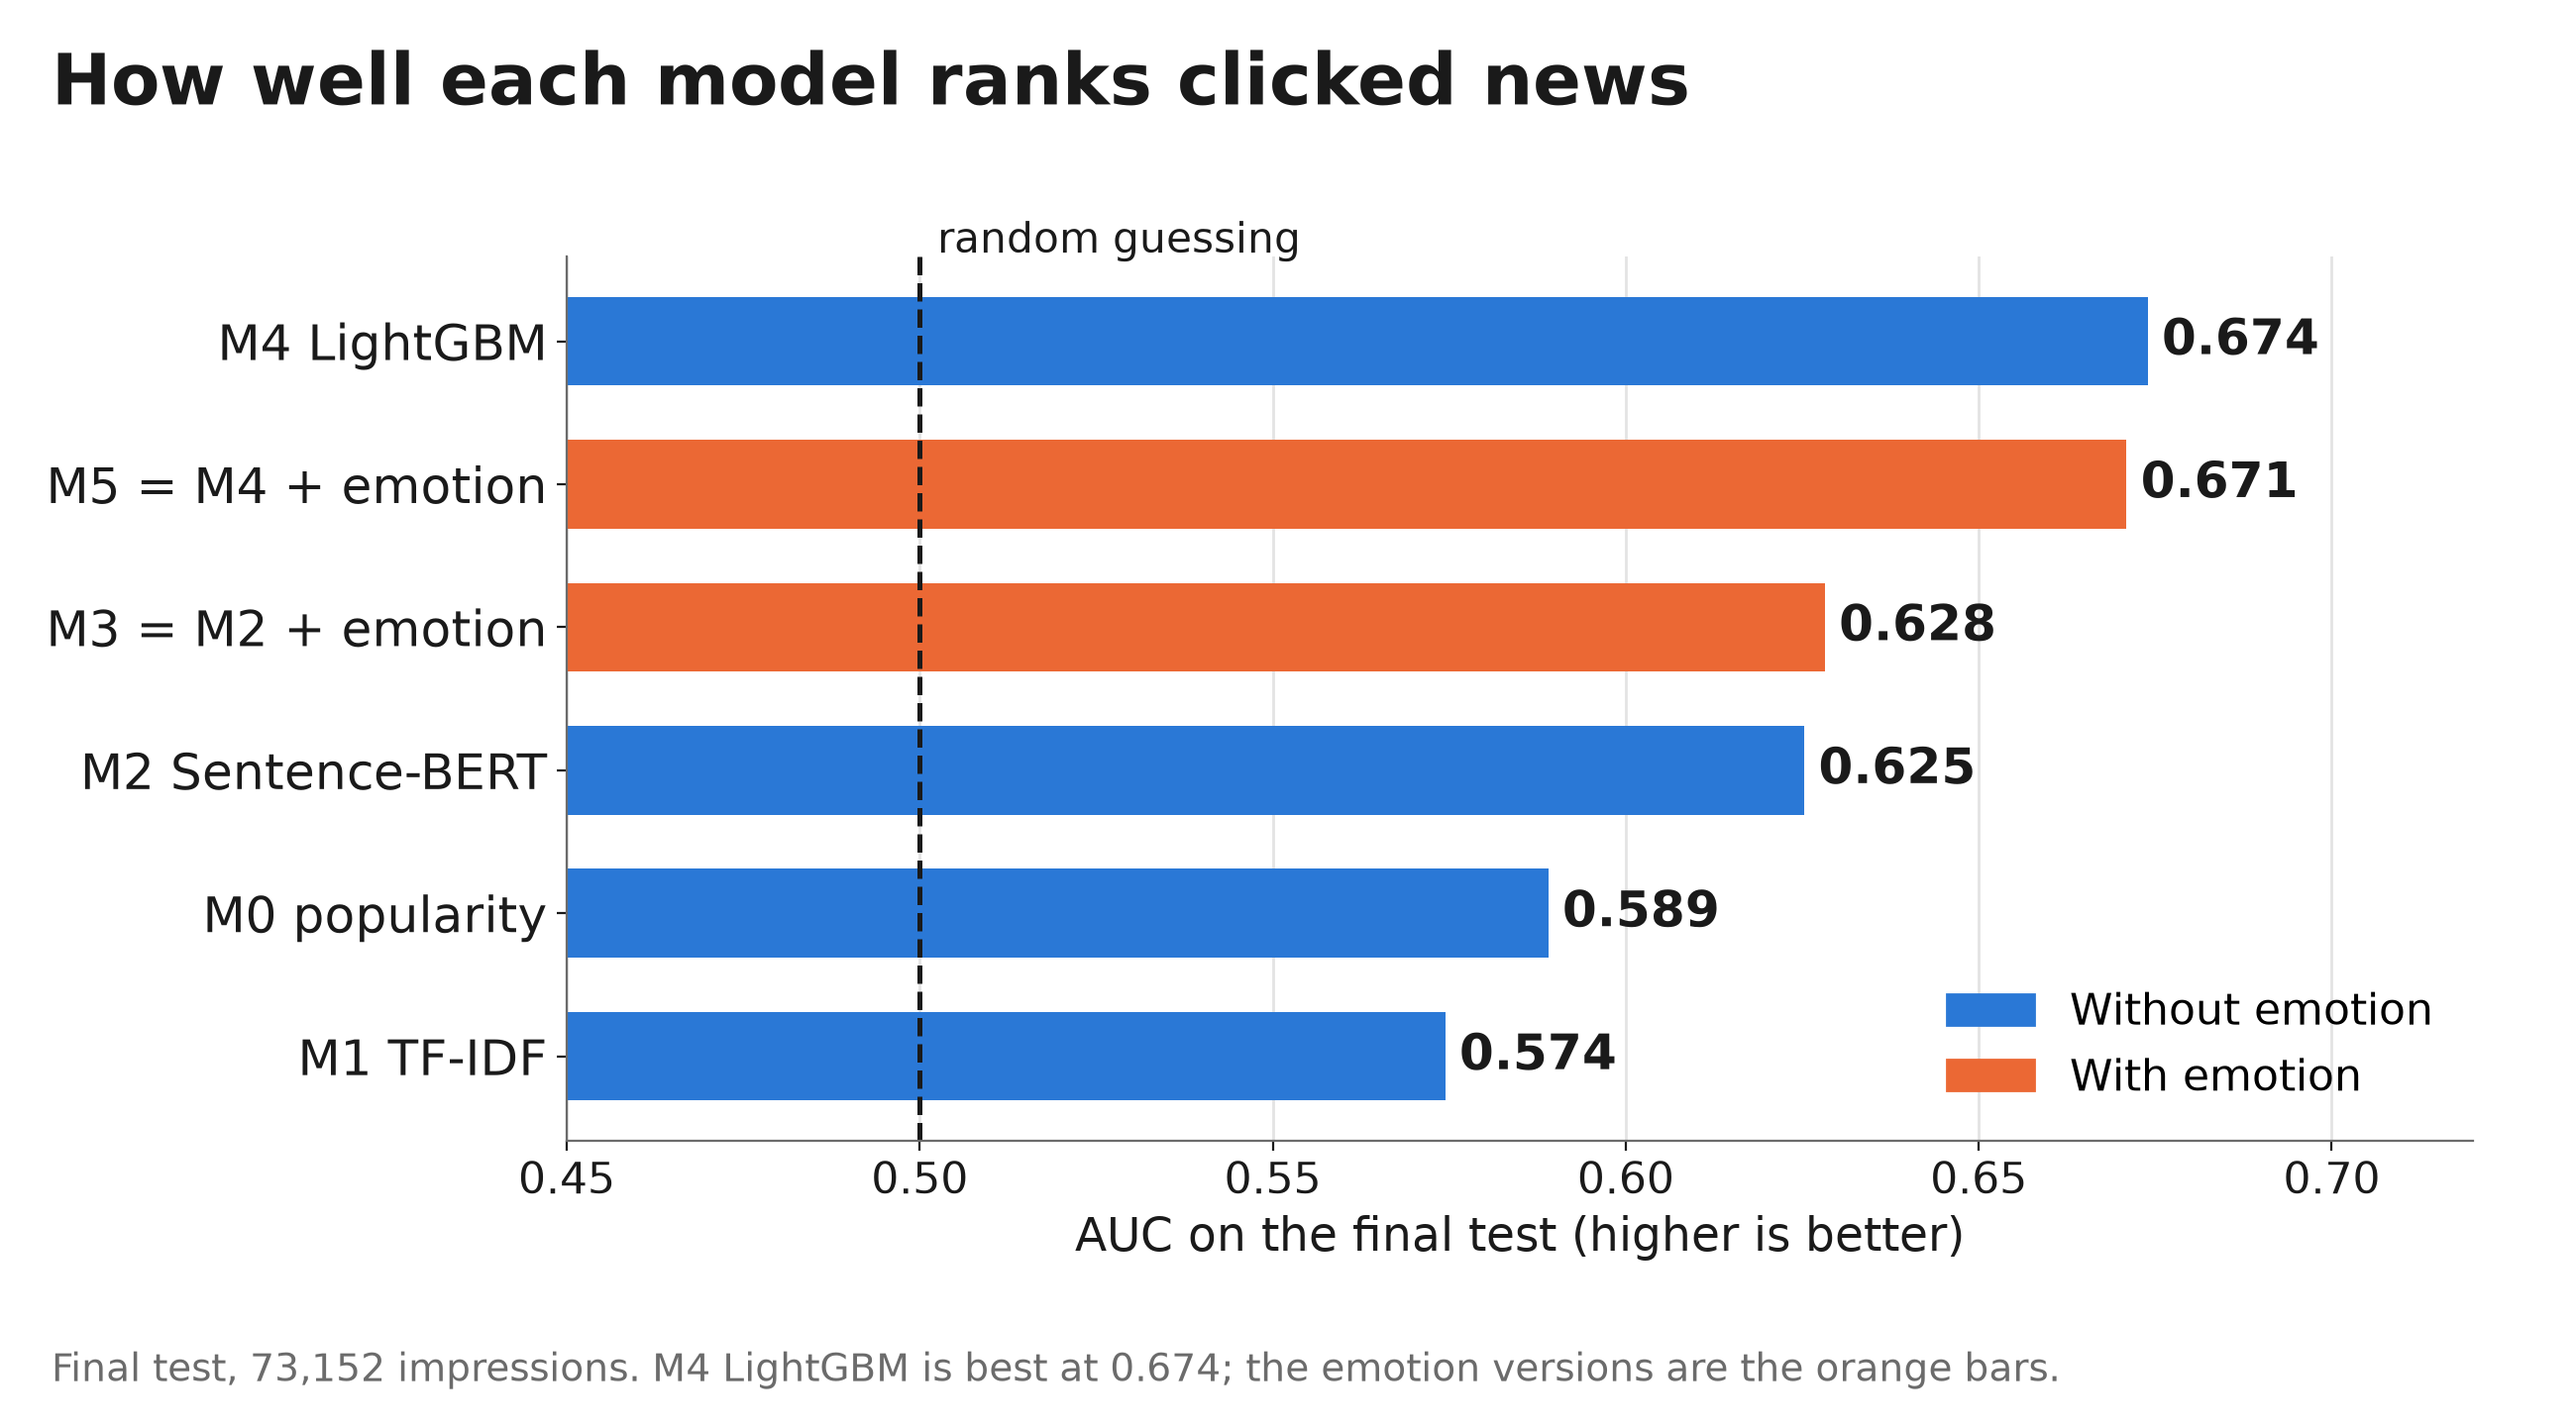
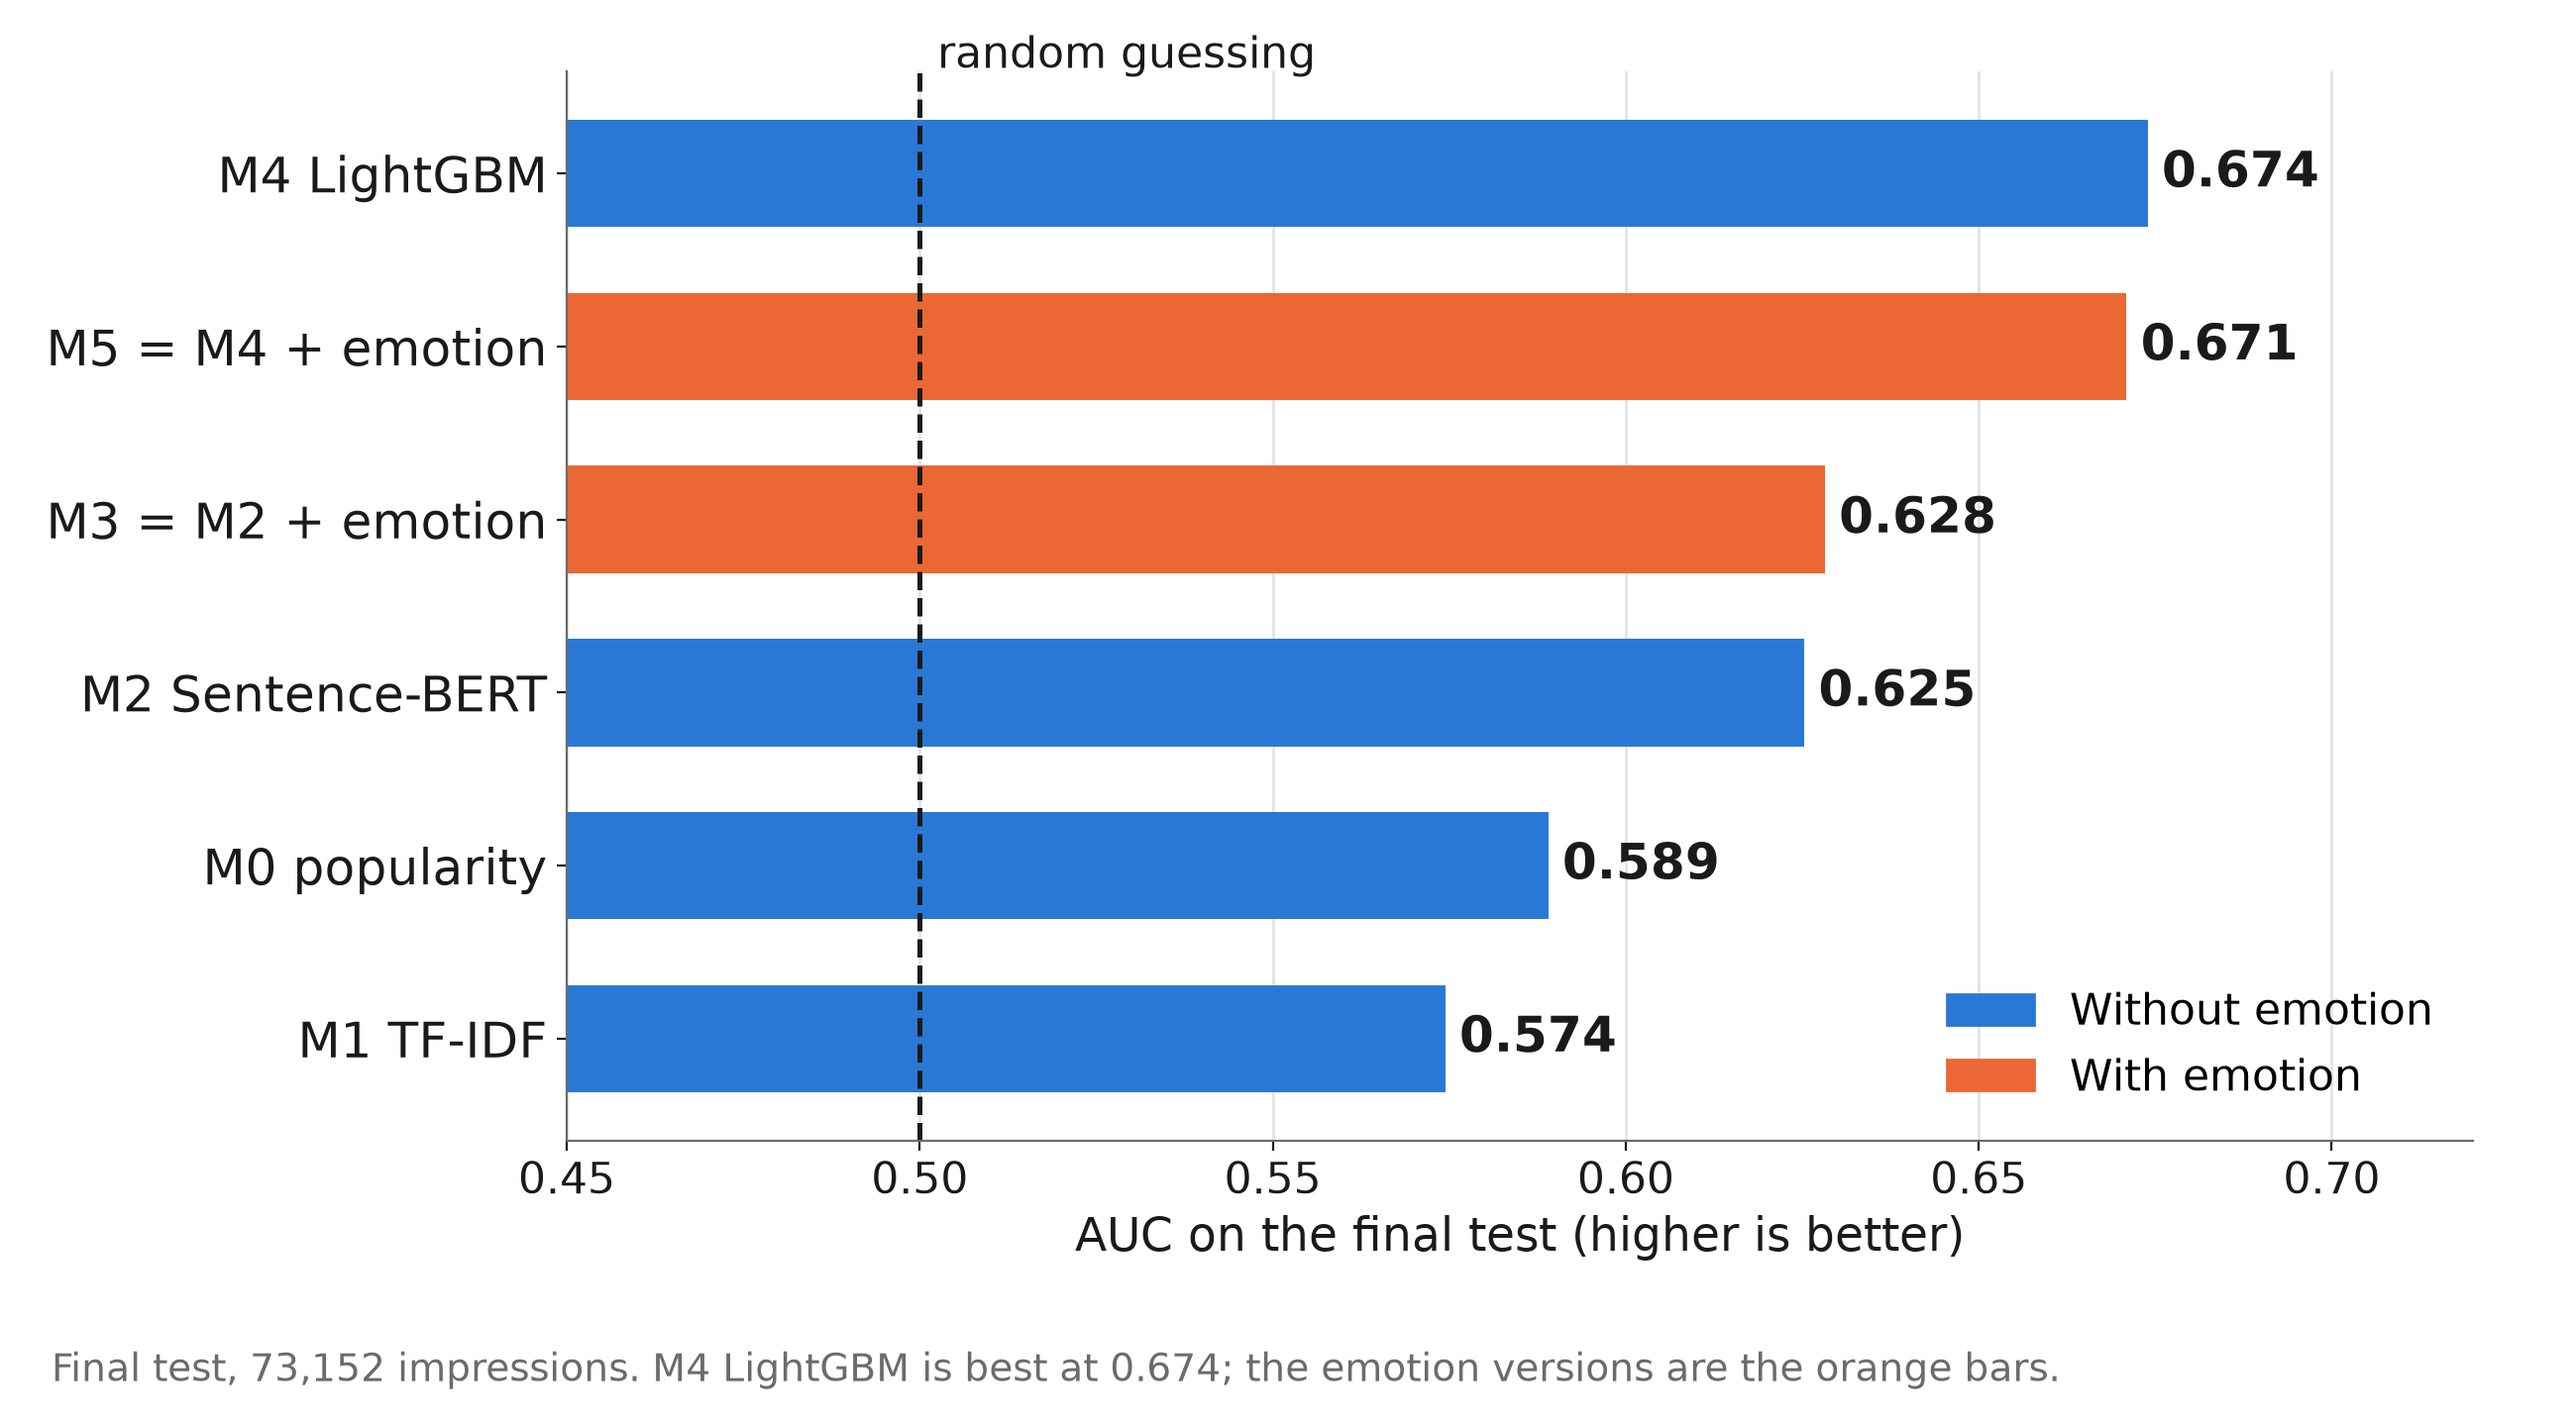
Presentation charts: remove titles (the slide carries them)

Changed region(s): [[0.0, 0.0312, 0.9035, 0.75], [0.2181, 0.75, 0.5608, 0.7812], [0.0935, 0.7188, 0.2181, 0.75]]

diff --git a/results/figures/presentation/make_charts.py b/results/figures/presentation/make_charts.py
@@ -19,8 +19,8 @@ BLUE, ORANGE, GREEN, RED, INK, GREY = "#2a78d6", "#eb6834", "#1baf7a", "#d6452a"
 plt.rcParams.update({"font.size": 16, "axes.edgecolor": GREY, "axes.labelcolor": INK, "xtick.color": INK, "ytick.color": INK})
 
 
-def finish(fig, name, title, caption):
-    fig.text(0.02, 0.965, title, fontsize=26, fontweight="bold", color=INK, ha="left", va="top")
+def finish(fig, name, caption):
+    """Save the chart with a one-line caption; no title, the slide carries it."""
     fig.text(0.02, 0.025, caption, fontsize=14, color=GREY, ha="left", va="bottom")
     fig.savefig(OUT / name, dpi=200, facecolor="white")
     plt.close(fig)
@@ -43,20 +43,20 @@ ladder = ladder[ladder["part"] == "dev"].sort_values("auc")
 
 # 1. dev AUC per model
 fig, ax = plt.subplots(figsize=(13, 7.2))
-fig.subplots_adjust(left=0.22, right=0.96, top=0.82, bottom=0.2)
+fig.subplots_adjust(left=0.22, right=0.96, top=0.95, bottom=0.2)
 frame(ax, "x")
 colors = [ORANGE if e else BLUE for e in ladder["emotion"]]
 ax.barh(ladder["label"], ladder["auc"], color=colors, height=0.62)
 for y, v in enumerate(ladder["auc"]):
     ax.text(v + 0.002, y, f"{v:.3f}", va="center", fontsize=18, fontweight="bold", color=INK)
 ax.axvline(0.5, color=INK, linestyle="--", linewidth=1.8)
-ax.text(0.5025, len(ladder) - 0.45, "random guessing", fontsize=15, color=INK, va="bottom")
+ax.text(0.5025, len(ladder) - 0.45, "random guessing", fontsize=16, color=INK, va="bottom")
 ax.set_xlim(0.45, 0.72)
 ax.set_xlabel("AUC on the final test (higher is better)", fontsize=17)
 ax.tick_params(axis="y", labelsize=18)
 ax.legend(handles=[Patch(color=BLUE, label="Without emotion"), Patch(color=ORANGE, label="With emotion")], loc="lower right", frameon=False, fontsize=16)
 best = ladder.iloc[-1]
-finish(fig, "1_how_well_each_model_ranks.png", "How well each model ranks clicked news",
+finish(fig, "1_how_well_each_model_ranks.png",
        f"Final test, {int(ladder['n'].iloc[0]):,} impressions. {best['label']} is best at {best['auc']:.3f}; the emotion versions are the orange bars.")
 
 # 2. does emotion help
@@ -64,7 +64,7 @@ m23 = auc_row(pd.read_csv(TABLES / "m2m3_comparison.csv"), "M2_sbert", "M3_sbert
 m45 = auc_row(pd.read_csv(TABLES / "m4m5_comparison.csv"), "M4_lightgbm", "M5_lightgbm_emotion")
 rows = [("Sentence-BERT\n(M3 minus M2)", m23), ("LightGBM\n(M5 minus M4)", m45)]
 fig, ax = plt.subplots(figsize=(13, 7.2))
-fig.subplots_adjust(left=0.12, right=0.96, top=0.82, bottom=0.2)
+fig.subplots_adjust(left=0.12, right=0.96, top=0.95, bottom=0.2)
 frame(ax, "y")
 for i, (name, r) in enumerate(rows):
     color = GREEN if r["mean_diff"] > 0 else RED
@@ -81,7 +81,7 @@ ax.set_xticks(range(len(rows)), [n for n, _ in rows], fontsize=19)
 ax.set_xlim(-0.6, len(rows) - 0.4)
 ax.set_ylim(-0.0085, 0.0085)
 ax.set_ylabel("Change in AUC when emotion is added", fontsize=17)
-finish(fig, "2_does_adding_emotion_help.png", "Does adding emotion help?",
+finish(fig, "2_does_adding_emotion_help.png",
        f"Final test, with 95% confidence bars. Emotion adds {m23['mean_diff']:+.4f} to Sentence-BERT and {m45['mean_diff']:+.4f} to LightGBM "
        "(Holm-corrected test).")
 
@@ -93,7 +93,7 @@ pick = [("anger", "goemotions_group"), ("fear", "goemotions_group"), ("joy", "go
 vals = [float(sem[(sem["gold"] == g) & (sem["source"] == s)]["spearman"].iloc[0]) for g, s in pick]
 names = [g for g, _ in pick]
 fig, ax = plt.subplots(figsize=(13, 7.2))
-fig.subplots_adjust(left=0.1, right=0.96, top=0.82, bottom=0.2)
+fig.subplots_adjust(left=0.1, right=0.96, top=0.95, bottom=0.2)
 frame(ax, "y")
 ax.bar(names, vals, color=[BLUE] * 5 + [ORANGE], width=0.62)
 for i, v in enumerate(vals):
@@ -103,7 +103,7 @@ ax.text(-0.45, 0.80, "dashed line = the minimum we required (0.2)", ha="left", f
 ax.set_ylim(0, 0.85)
 ax.set_ylabel("Agreement with human ratings\n(correlation, 1 = perfect)", fontsize=17)
 ax.tick_params(axis="x", labelsize=19)
-finish(fig, "3_do_emotion_scores_agree_with_humans.png", "Do our emotion scores agree with humans?",
+finish(fig, "3_do_emotion_scores_agree_with_humans.png",
        f"{int(sem['n'].iloc[0]):,} news headlines rated by people (SemEval-2007 test set). Orange = positive-versus-negative feeling (valence).")
 
 # M4 / M5 summary, in plain words
